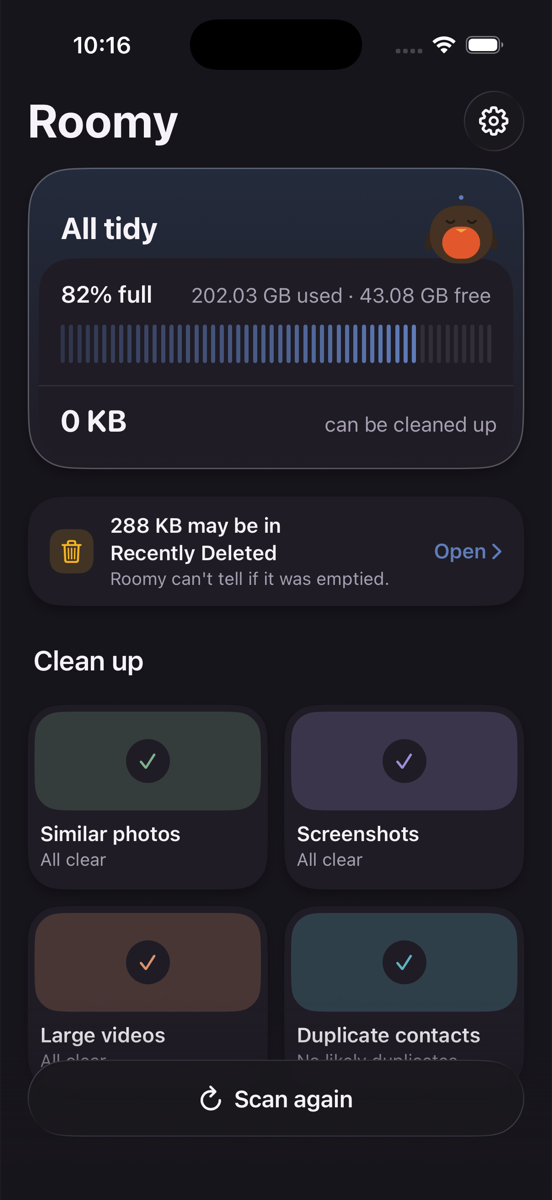
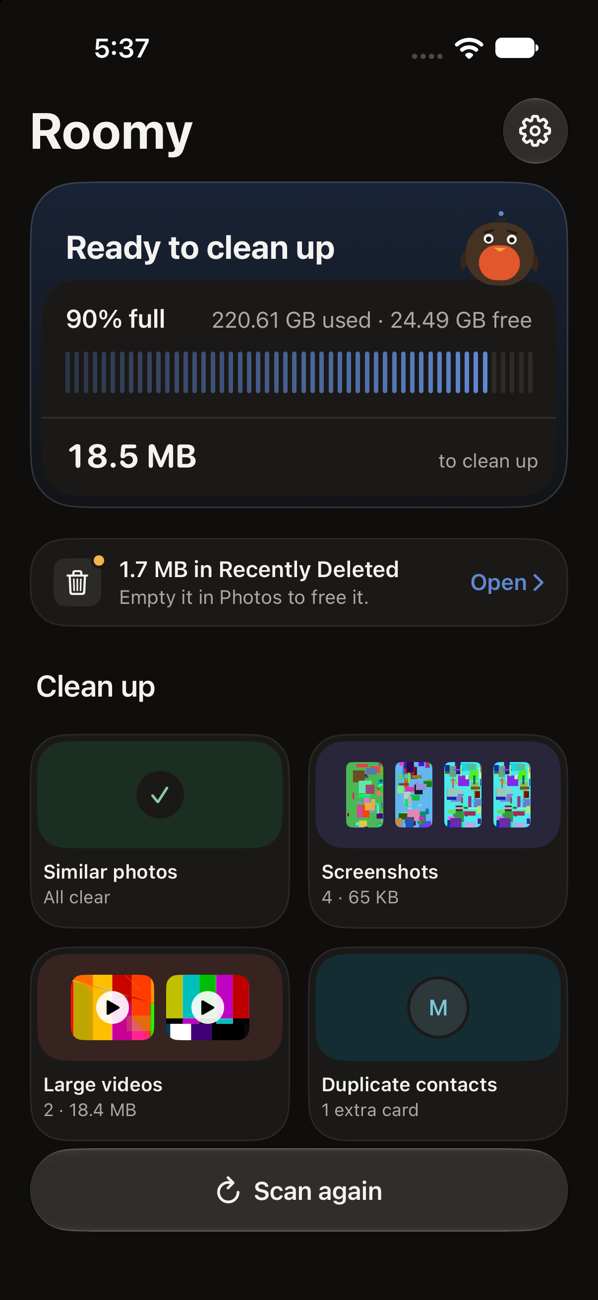
Update the README with every screen and setup steps
A fresh overview of all twelve screens as built, light and dark dashboard
screenshots, step-by-step setup for the simulator and an iPhone, tests and
checks, privacy, and the scan-at-launch behaviour.

diff --git a/README.md b/README.md
@@ -13,35 +13,60 @@ The mascot is Roomy, a small robin that sits on the storage card and reacts to w
   <img src="design/app-dashboard-dark.png" alt="Dashboard in dark mode" width="300">
 </p>
 
-Every screen, as designed in Figma and built:
+Every screen, as built. Screenshots from the iOS 27 simulator with synthetic test photos and contacts; every screen was designed in Figma first ([file](https://www.figma.com/design/vkLwPMTONVGAW83m8B1oK8)):
 
 ![Every screen](design/screens-overview.png)
 
 ## Build and run
 
-Requirements: Xcode 26.3+ (Xcode 27 to run on an iPhone with iOS 27) and
-[XcodeGen](https://github.com/yonaskolb/XcodeGen) (`brew install xcodegen`).
+**You need:** a Mac with **Xcode 26.3 or later** (Xcode 27 to install on an iPhone running iOS 27). No packages,
+no accounts, no network: everything builds from this repository.
 
-```bash
-xcodegen generate          # creates Roomy.xcodeproj from project.yml
-open Roomy.xcodeproj
-```
+### Quick start (simulator)
 
-- **Simulator:** pick any iPhone simulator and Run. To get test data, drag photos into the simulator or use
-  `xcrun simctl addmedia booted <files>` (images, videos and `.vcf` contacts all work).
-- **iPhone with a free Apple ID:** `cp Signing.local.xcconfig.example Signing.local.xcconfig` and put your team
-  ID in it (and your own bundle id if `com.gauravsingh.roomy` is taken). The file is ignored by git and survives
-  `xcodegen generate`, which would erase a team picked in Xcode. Free provisioning expires after 7 days; run
-  again from Xcode to renew. Target device: iPhone 16 on iOS 27. See [docs/DEVICE.md](docs/DEVICE.md).
-- **Checks:** `scripts/check.sh` runs the architecture rules, `swift-format` lint, a zero-warning simulator
-  build, the unit tests (275) and an unsigned iPhone build that fails on any warning. `scripts/check.sh --fast`
-  skips the builds.
+1. Clone or unzip the repository, then open **`Roomy.xcodeproj`** in Xcode. The project is committed, so nothing
+   needs generating.
+2. Choose the **Roomy** scheme and any iPhone simulator (iOS 17 or later), then press **Run** (⌘R).
+3. The simulator's library is almost empty. Add test media by dragging photos, videos or a `.vcf` contacts file
+   onto the simulator window, or from Terminal:
+
+   ```bash
+   xcrun simctl addmedia booted ~/Pictures/some-photos/*.jpg ~/Movies/clip.mov ~/Desktop/contacts.vcf
+   ```
+
+   To see similar-photo groups, add the same photo twice, or a few shots taken seconds apart. Add a contact twice
+   with the same phone number to see duplicate contacts. Then tap **Scan again** in Roomy.
+
+### On an iPhone
+
+1. Connect the iPhone, tap **Trust**, and turn on **Settings → Privacy & Security → Developer Mode** (it restarts).
+2. In Xcode → Settings → Accounts, sign in with an Apple ID. A free Personal Team is enough.
+3. Select the **Roomy** target → **Signing & Capabilities** → Team: your team. If Xcode says the bundle id is taken,
+   change it to something unique, such as `com.yourname.roomy`.
+4. Choose the iPhone as the run destination and press **Run**. On first launch, trust the developer on the phone:
+   Settings → General → VPN & Device Management → your Apple ID → Trust.
+
+Free provisioning lasts 7 days. [docs/DEVICE.md](docs/DEVICE.md) has the details, including a signing setup that
+survives regenerating the project.
+
+### Tests and checks
+
+- **Tests:** ⌘U in Xcode runs 318 unit tests (no photo library needed; they use fakes).
+- **Full gate:** `scripts/check.sh` runs the architecture rules, `swift-format` lint, a zero-warning simulator build,
+  the tests, and an unsigned iPhone build that fails on any warning. `scripts/check.sh --fast` skips the builds.
+- **Editing the project structure:** files are listed in `project.yml`; after adding or moving files run
+  `xcodegen generate` ([XcodeGen](https://github.com/yonaskolb/XcodeGen), `brew install xcodegen`).
+
+### Privacy
+
+Roomy runs entirely on the device: it makes no network requests, collects nothing, and has no account. Photos and
+contacts never leave the phone, and nothing is deleted without two confirmations (Roomy's own, then iOS's).
 
 ## What it does
 
 | Area | How |
 |---|---|
-| Onboarding | Three pages: an animated welcome (a storage bar fills, turns red, then sweeps down as Roomy lands), how it works, and permissions in every state; Skip never passes the permissions page. No login or account: the brief puts them out of scope and nothing leaves the phone |
+| Onboarding | Three pages: an animated welcome (a storage bar fills, turns red, then sweeps down as Roomy lands), how it works, and permissions in every state; Skip never passes the permissions page. No login or account: the brief puts them out of scope and nothing leaves the phone. Onboarding shows once; every later launch opens with a two-second version of the welcome story (tap to skip, none with Reduce Motion) while the scan starts underneath |
 | Storage dashboard | Free / used from `volumeAvailableCapacityForImportantUsage` (the closest API to Settings), shown as "92% full" and a tick bar; what the scan can clean up; one bottom capsule that is always the next action: Scan for space, Cancel scan (with progress), Resume scan, Scan again, or Review |
 | Similar photos | 64-bit difference hash per photo; every burst frame grouped by its burst id; duplicates across the whole library (Hamming ≤ 4, every such pair found with 5 LSH bands, crowded bands split again), near-identical shots only within one moment (first to last shot ≤ 60 s, same aspect, Hamming ≤ 10); flat frames (dark, white, blank) never linked on their hash; union-find into groups labelled by what holds for every member; a keeper picked by favourite, the burst pick, resolution, sharpness (Laplacian variance), then size — and you can make any photo the keeper; other favourites and picked burst frames are never selected in bulk |
 | Screenshots | The Photos screenshot subtype, in a month-grouped 9:16 grid |
@@ -74,6 +99,11 @@ open Roomy.xcodeproj
   merge combine values with one shared function. Notes can't be read by apps, so the contacts screen and the
   confirmation say notes on removed cards aren't carried over. A card edited after the scan stops its group
   from merging, and a group Contacts refuses to save (a read-only account) is not offered again.
+- **Scan at launch; stay quiet after.** The full scan (index, then comparing photos, with its progress in the bottom
+  capsule) runs when Roomy launches and when you tap Scan again. Changes made outside Roomy — an iCloud sync, a trip
+  to the Photos app, a new screenshot — only re-read the index, silently, at most every 30 s: whatever is gone leaves
+  every list and new screenshots and videos appear, while new photos join similar groups at the next full scan.
+  Roomy's own deletions and merges update every screen from the cleanup's report, with no rescan.
 - **Merge, not delete, for duplicate contacts.** The brief allows "merge or delete"; Roomy merges.
   - *Delete* would remove the extra cards outright. If one had a second number, a work email or an address the
     other lacked, that detail is gone — and iOS shows no prompt and has no Recently Deleted for contacts.
@@ -105,8 +135,9 @@ open Roomy.xcodeproj
   amount in words underneath. Pending and freed differ in shape (outline, then filled with a check) and words,
   not colour alone.
 - **Calm motion, always optional.** Skeletons shaped like the real layout (shown only if loading takes over
-  0.3 s), a zoom from each category tile into its screen (iOS 18+), a staggered dashboard, and the welcome
-  story. Every animation has a Reduce Motion fallback, and timings live in one `Motion` token file.
+  0.3 s), a zoom from each category tile into its screen (iOS 18+), a staggered dashboard, the welcome
+  story and its short launch version. Every animation has a Reduce Motion fallback, and timings live in the
+  `Motion` token files.
 - **Light, dark and tinted.** Every colour is a light/dark pair, the app icon has dark and tinted versions,
   and Settings can override the system appearance.
 

diff --git a/design/README.md b/design/README.md
@@ -2,7 +2,9 @@
 
 Figma (Foundations · Components · Screens · Icon): https://www.figma.com/design/vkLwPMTONVGAW83m8B1oK8
 
-- `screens-overview.png` — every v5 screen from Figma (393×852): launch, onboarding, dashboard, the four categories, Review, deleting, result, Settings.
+- `screens-overview.png` — every screen as built, captured in the iOS 27 simulator (dark mode, synthetic test data):
+  launch intro, Welcome, dashboard, Similar Photos, Compare, Screenshots, Large Videos, the video sheet, Duplicate
+  Contacts, Review, the result and Settings. The Figma file holds the designs they were built from.
 - `app-dashboard.png`, `app-dashboard-dark.png` — the dashboard as built, light and dark, in the simulator with a
   synthetic test library.
 - `AppIcon-1024.png` — unmasked master (background + halo + mascot layers) for Icon Composer / the asset catalog.
@@ -32,4 +34,11 @@ Figma (Foundations · Components · Screens · Icon): https://www.figma.com/desi
   mode is unchanged. The app icon has dark and tinted versions.
 - Other Figma sections: "v5 — Category screens & Settings", "v5 — Sheets & delete flow", "v5 — Onboarding, loading
   & motion" (flow, loading-state audit, launch screen, motion spec with Reduce Motion fallbacks).
+- Launch intro (motion, no Figma frame of its own): every launch after onboarding opens with the Welcome stage on
+  its wash for about 2.4 s — capsule full, red with the three-shake signal at 0.2 s, Roomy drops at 0.85 s and
+  lands as the fill sweeps down to green from 0.95 s, pleased at 1.6 s, then a 0.35 s crossfade to the dashboard at
+  2.1 s. No haptic (onboarding keeps its one buzz). A tap skips it; with Reduce Motion it is skipped entirely. The
+  first launch shows the full onboarding instead. Beats: `LaunchIntroBeat`; the scan is already running underneath.
+  The static launch screen is the background colour alone (`LaunchBackground`, light and dark), so Roomy's drop is
+  the first thing that moves and he never flickers from a static image into the animation.
 - Figma renders Inter; the app uses SF Pro. Inter matches SF Pro metrics closely.
